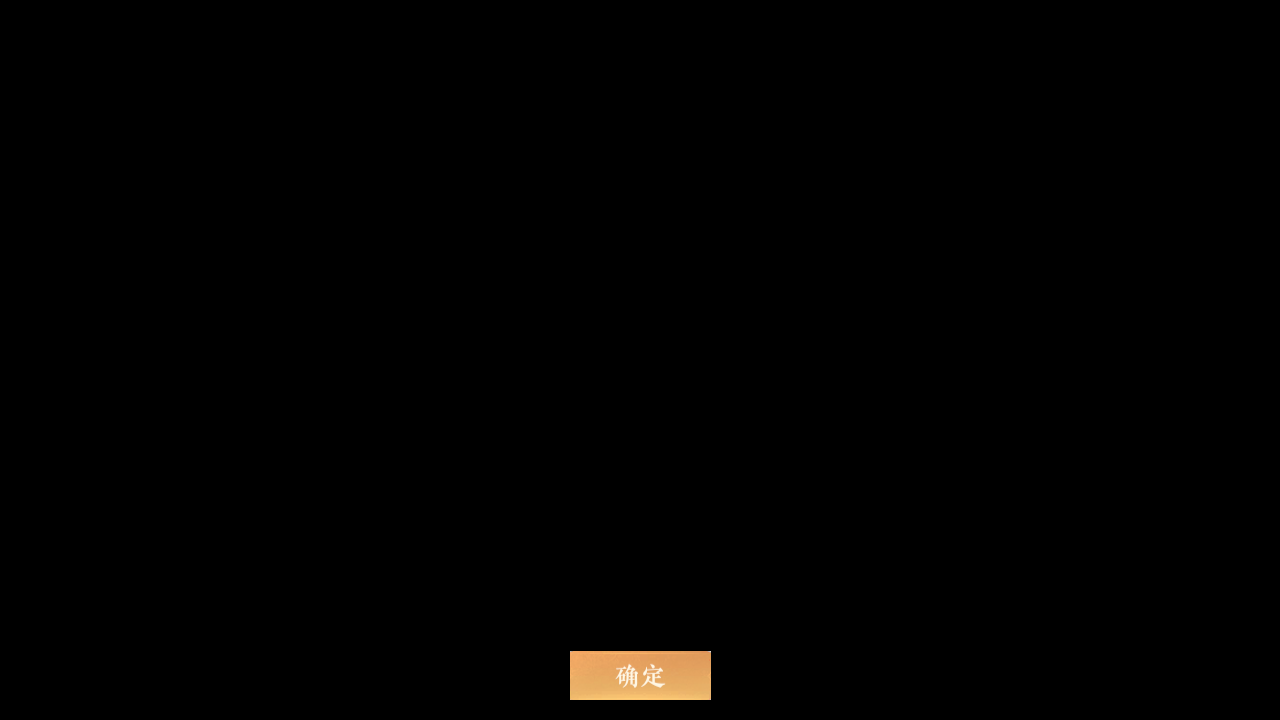
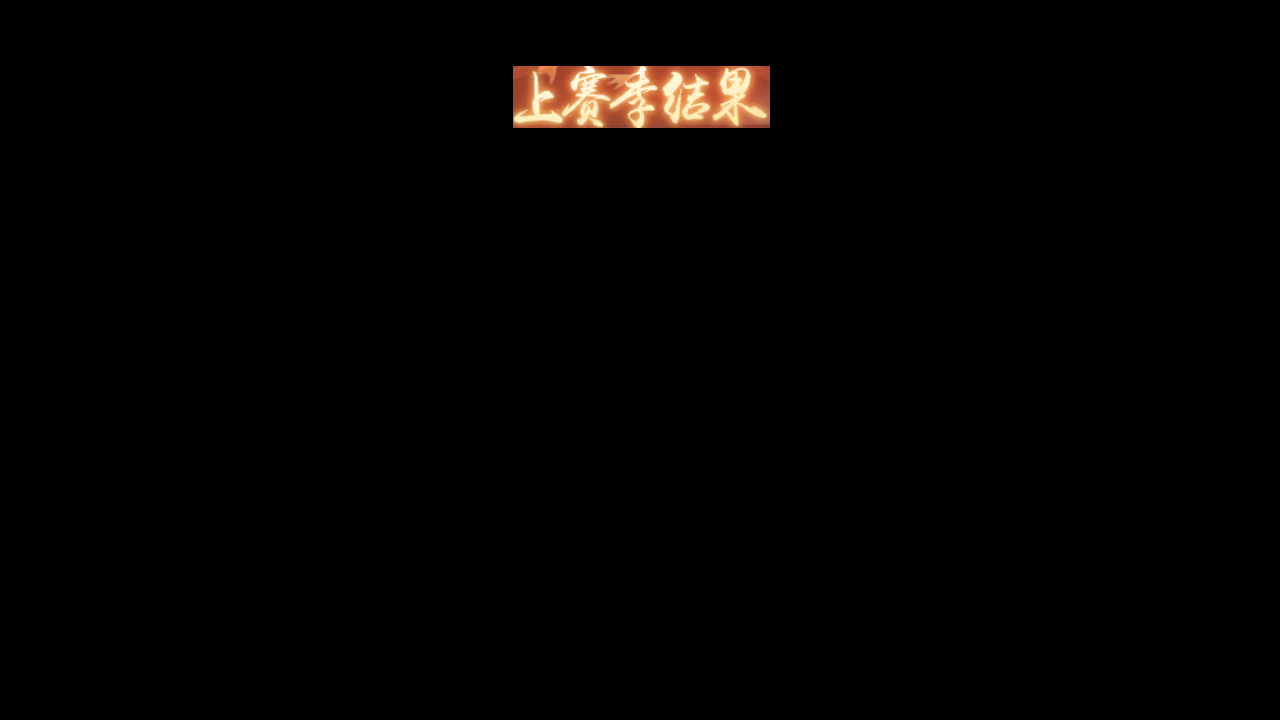
fix jinge's last week settlement

Changed region(s): [[0.375, 0.0917, 0.625, 0.1833], [0.4375, 0.8861, 0.5625, 0.9778]]

diff --git a/tasks/cattery/cattery.py b/tasks/cattery/cattery.py
@@ -31,31 +31,6 @@ class Cattery(UI):
 
         self.config.task_delay(server_update=True)
 
-    # def _goto_cattery(self):
-    #     """
-    #     Pages:
-    #         in: MENU
-    #         out: PROFILE
-    #     """
-    #     skip_first_screenshot = False
-    #     logger.info('Going to cattery')
-    #     while 1:
-    #         if skip_first_screenshot:
-    #             skip_first_screenshot = False
-    #         else:
-    #             self.device.screenshot()
-    #
-    #
-    #         if self.appear(CATTERY_CHECK):
-    #             logger.info('Successfully in cattery')
-    #             return True
-    #
-    #         if self.appear_then_click(MAIN_GOTO_CATTERY):
-    #             continue
-    #     return False
-
-        # if self.appear_then_click(PROFILE):
-        #     continue
 
     def _feed_cats(self, skip_first_screenshot=True):
         """

diff --git a/tasks/JinGe/assets/assets_JinGe.py b/tasks/JinGe/assets/assets_JinGe.py
@@ -67,9 +67,19 @@ PVP_SKIP_LAST_WEEK_LEVEL = ButtonWrapper(
     name='PVP_SKIP_LAST_WEEK_LEVEL',
     share=Button(
         file='./assets/share/JinGe/PVP_SKIP_LAST_WEEK_LEVEL.png',
-        area=(570, 651, 711, 700),
-        search=(550, 631, 731, 720),
-        color=(235, 175, 108),
+        area=(513, 66, 770, 128),
+        search=(493, 46, 790, 148),
+        color=(214, 147, 103),
+        button=(570, 651, 711, 700),
+    ),
+)
+PVP_SKIP_LAST_WEEK_LEVEL_2 = ButtonWrapper(
+    name='PVP_SKIP_LAST_WEEK_LEVEL_2',
+    share=Button(
+        file='./assets/share/JinGe/PVP_SKIP_LAST_WEEK_LEVEL_2.png',
+        area=(506, 60, 776, 131),
+        search=(486, 40, 796, 151),
+        color=(211, 142, 101),
         button=(570, 651, 711, 700),
     ),
 )

diff --git a/tasks/JinGe/JinGe.py b/tasks/JinGe/JinGe.py
@@ -131,6 +131,10 @@ class JinGe(UI):
                 continue
                 # 每周有段位结算
             if self.appear_then_click(PVP_SKIP_LAST_WEEK_LEVEL):
+                logger.info("Skip last week level settlement page")
+                continue
+            if self.appear_then_click(PVP_SKIP_LAST_WEEK_LEVEL_2):
+                logger.info("Skip last week level inherit page")
                 continue
             if self.handle_pvp_combat(interval):
                 timeout.reset()
